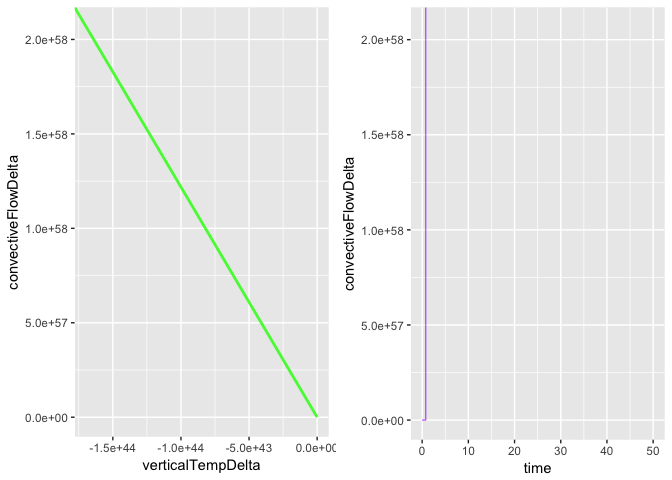
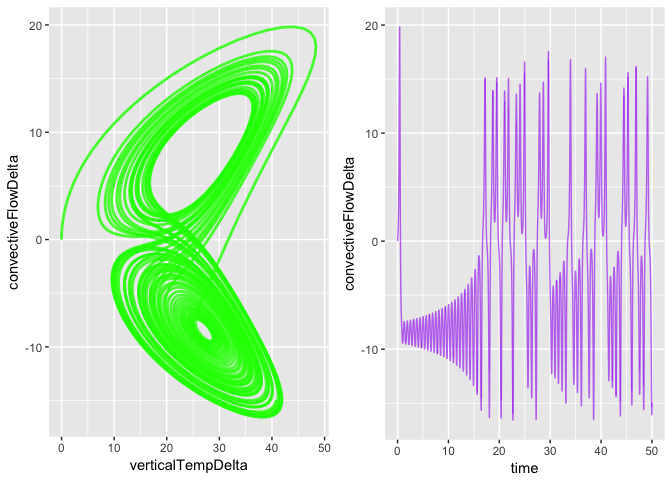
maatch init and return values

diff --git a/porting-lorenz/README.md b/porting-lorenz/README.md
@@ -7,7 +7,7 @@ simecol lorenz
 ![alt text](lorenz/lorenz.png "optional title")
 
 
-### simecol mode 
+### simecol mode
 
 ``` r
 library("simecol")
@@ -30,23 +30,25 @@ lorenz.model <- new("odeModel",                   # object class = 'odeModel'
             verticalTempDelta <- verticalTempDt
             convectiveFlowDelta <- convectiveFlowDt
           
-            list(c(horizTempDelta, verticalTempDelta, convectiveFlowDelta))
+            list(c(convectiveFlowDelta, horizTempDelta, verticalTempDelta)) # *match order with init()*
            })
          },
          
          #.0078125
         times = seq(0, 50, .0078125), 
-        parms = c(prandtl=10, rayleigh=28, height=8/3),
+        parms = c(prandtl=10, rayleigh=28, height=8/3), # 2.66666666667
         init = c(convectiveFlowDelta=0, horizTempDelta=1, verticalTempDelta=0),
-        solver = "rk4"
+        solver = "lsoda"  # use "lsoda" instead of "rk4". It is faster and more precise.
         
       )
 ```
 
 ``` r
 lorenz.sim <- sim(lorenz.model)
-#plot(lorenz.sim)
+plot(lorenz.sim)
 ```
+
+![](lorenz_files/figure-markdown_github/unnamed-chunk-2-1.png)
 
 ``` r
 plotupca <- function(obj, ...) {
@@ -57,7 +59,7 @@ plotupca <- function(obj, ...) {
   o.df <- out(obj)  # output a dataframe
   
   gg1 <- ggplot()  +
-    geom_line(aes(x=verticalTempDelta, y=convectiveFlowDelta), o.df, colour = "green", size=1, alpha=0.8)
+    geom_path(aes(x=verticalTempDelta, y=convectiveFlowDelta), o.df, colour = "green", size=1, alpha=0.8)
   
   gg2 <- ggplot()  +
     geom_line(aes(x=time, y=convectiveFlowDelta), o.df,  colour = "purple", alpha=0.6) 
@@ -72,10 +74,6 @@ plotupca <- function(obj, ...) {
  plotupca(lorenz.sim)
 ```
 
-    ## Warning: Removed 6301 rows containing missing values (geom_path).
-
-    ## Warning: Removed 6301 rows containing missing values (geom_path).
-
 ![](lorenz_files/figure-markdown_github/unnamed-chunk-4-1.png)
 
 ``` r
@@ -83,12 +81,12 @@ head(out(lorenz.sim))
 ```
 
     ##        time convectiveFlowDelta horizTempDelta verticalTempDelta
-    ## 1 0.0000000         0.000000000      1.0000000         0.0000000
-    ## 2 0.0078125        -0.008728548      0.9991512         0.0784315
-    ## 3 0.0156250        -0.019563975      0.9965861         0.1574912
-    ## 4 0.0234375        -0.032988830      0.9922734         0.2372266
-    ## 5 0.0312500        -0.049596997      0.9861773         0.3177246
-    ## 6 0.0390625        -0.070118823      0.9782553         0.3991204
+    ## 1 0.0000000          0.00000000       1.000000      0.0000000000
+    ## 2 0.0078125          0.07506709       1.000514      0.0002947338
+    ## 3 0.0156250          0.14514002       1.016805      0.0011507602
+    ## 4 0.0234375          0.21173848       1.047831      0.0025537160
+    ## 5 0.0312500          0.27620038       1.092866      0.0045218346
+    ## 6 0.0390625          0.33972050       1.151467      0.0071017494
 
 ``` r
 main(lorenz.sim)
@@ -106,7 +104,7 @@ main(lorenz.sim)
     ##             verticalTempDelta <- verticalTempDt
     ##             convectiveFlowDelta <- convectiveFlowDt
     ##           
-    ##             list(c(horizTempDelta, verticalTempDelta, convectiveFlowDelta))
+    ##             list(c(convectiveFlowDelta, horizTempDelta, verticalTempDelta)) # *match order with init()*
     ##            })
     ##          }
 
@@ -134,7 +132,7 @@ equations(lorenz.sim)
 solver(lorenz.sim)
 ```
 
-    ## [1] "rk4"
+    ## [1] "lsoda"
 
 ``` r
 class(lorenz.sim)
@@ -156,17 +154,18 @@ str(lorenz.sim)
     ##   ..@ observer : NULL
     ##   ..@ main     :function (times, y, parms)  
     ##   .. ..- attr(*, "srcref")=Class 'srcref'  atomic [1:8] 6 17 20 10 17 10 6 20
-    ##   .. .. .. ..- attr(*, "srcfile")=Classes 'srcfilecopy', 'srcfile' <environment: 0x7f8bf2d29e98> 
+    ##   .. .. .. ..- attr(*, "srcfile")=Classes 'srcfilecopy', 'srcfile' <environment: 0x7f8764c5c898> 
     ##   ..@ equations: NULL
     ##   ..@ times    : num [1:6401] 0 0.00781 0.01562 0.02344 0.03125 ...
     ##   ..@ inputs   : NULL
-    ##   ..@ solver   : chr "rk4"
+    ##   ..@ solver   : chr "lsoda"
     ##   ..@ out      : deSolve [1:6401, 1:4] 0 0.00781 0.01562 0.02344 0.03125 ...
-    ##   .. ..- attr(*, "istate")= int [1:21] 0 6400 25601 NA NA NA NA NA NA NA ...
     ##   .. ..- attr(*, "dimnames")=List of 2
     ##   .. .. ..$ : NULL
     ##   .. .. ..$ : chr [1:4] "time" "convectiveFlowDelta" "horizTempDelta" "verticalTempDelta"
+    ##   .. ..- attr(*, "istate")= int [1:21] 2 6800 13581 NA 6 6 0 68 23 NA ...
+    ##   .. ..- attr(*, "rstate")= num [1:5] 0.00781 0.00781 50.00359 0 43.98515
     ##   .. ..- attr(*, "lengthvar")= int 3
     ##   .. ..- attr(*, "class")= chr [1:2] "deSolve" "matrix"
-    ##   .. ..- attr(*, "type")= chr "rk"
+    ##   .. ..- attr(*, "type")= chr "lsoda"
     ##   ..@ initfunc : NULL

diff --git a/porting-lorenz/lorenz.md b/porting-lorenz/lorenz.md
@@ -22,23 +22,25 @@ lorenz.model <- new("odeModel",                   # object class = 'odeModel'
             verticalTempDelta <- verticalTempDt
             convectiveFlowDelta <- convectiveFlowDt
           
-            list(c(horizTempDelta, verticalTempDelta, convectiveFlowDelta))
+            list(c(convectiveFlowDelta, horizTempDelta, verticalTempDelta)) # *match order with init()*
            })
          },
          
          #.0078125
         times = seq(0, 50, .0078125), 
-        parms = c(prandtl=10, rayleigh=28, height=8/3),
+        parms = c(prandtl=10, rayleigh=28, height=8/3), # 2.66666666667
         init = c(convectiveFlowDelta=0, horizTempDelta=1, verticalTempDelta=0),
-        solver = "rk4"
+        solver = "lsoda"  # use "lsoda" instead of "rk4". It is faster and more precise.
         
       )
 ```
 
 ``` r
 lorenz.sim <- sim(lorenz.model)
-#plot(lorenz.sim)
+plot(lorenz.sim)
 ```
+
+![](lorenz_files/figure-markdown_github/unnamed-chunk-2-1.png)
 
 ``` r
 plotupca <- function(obj, ...) {
@@ -49,7 +51,7 @@ plotupca <- function(obj, ...) {
   o.df <- out(obj)  # output a dataframe
   
   gg1 <- ggplot()  +
-    geom_line(aes(x=verticalTempDelta, y=convectiveFlowDelta), o.df, colour = "green", size=1, alpha=0.8)
+    geom_path(aes(x=verticalTempDelta, y=convectiveFlowDelta), o.df, colour = "green", size=1, alpha=0.8)
   
   gg2 <- ggplot()  +
     geom_line(aes(x=time, y=convectiveFlowDelta), o.df,  colour = "purple", alpha=0.6) 
@@ -64,10 +66,6 @@ plotupca <- function(obj, ...) {
  plotupca(lorenz.sim)
 ```
 
-    ## Warning: Removed 6301 rows containing missing values (geom_path).
-
-    ## Warning: Removed 6301 rows containing missing values (geom_path).
-
 ![](lorenz_files/figure-markdown_github/unnamed-chunk-4-1.png)
 
 ``` r
@@ -75,12 +73,12 @@ head(out(lorenz.sim))
 ```
 
     ##        time convectiveFlowDelta horizTempDelta verticalTempDelta
-    ## 1 0.0000000         0.000000000      1.0000000         0.0000000
-    ## 2 0.0078125        -0.008728548      0.9991512         0.0784315
-    ## 3 0.0156250        -0.019563975      0.9965861         0.1574912
-    ## 4 0.0234375        -0.032988830      0.9922734         0.2372266
-    ## 5 0.0312500        -0.049596997      0.9861773         0.3177246
-    ## 6 0.0390625        -0.070118823      0.9782553         0.3991204
+    ## 1 0.0000000          0.00000000       1.000000      0.0000000000
+    ## 2 0.0078125          0.07506709       1.000514      0.0002947338
+    ## 3 0.0156250          0.14514002       1.016805      0.0011507602
+    ## 4 0.0234375          0.21173848       1.047831      0.0025537160
+    ## 5 0.0312500          0.27620038       1.092866      0.0045218346
+    ## 6 0.0390625          0.33972050       1.151467      0.0071017494
 
 ``` r
 main(lorenz.sim)
@@ -98,7 +96,7 @@ main(lorenz.sim)
     ##             verticalTempDelta <- verticalTempDt
     ##             convectiveFlowDelta <- convectiveFlowDt
     ##           
-    ##             list(c(horizTempDelta, verticalTempDelta, convectiveFlowDelta))
+    ##             list(c(convectiveFlowDelta, horizTempDelta, verticalTempDelta)) # *match order with init()*
     ##            })
     ##          }
 
@@ -126,7 +124,7 @@ equations(lorenz.sim)
 solver(lorenz.sim)
 ```
 
-    ## [1] "rk4"
+    ## [1] "lsoda"
 
 ``` r
 class(lorenz.sim)
@@ -148,17 +146,18 @@ str(lorenz.sim)
     ##   ..@ observer : NULL
     ##   ..@ main     :function (times, y, parms)  
     ##   .. ..- attr(*, "srcref")=Class 'srcref'  atomic [1:8] 6 17 20 10 17 10 6 20
-    ##   .. .. .. ..- attr(*, "srcfile")=Classes 'srcfilecopy', 'srcfile' <environment: 0x7f8bf2d29e98> 
+    ##   .. .. .. ..- attr(*, "srcfile")=Classes 'srcfilecopy', 'srcfile' <environment: 0x7f8764c5c898> 
     ##   ..@ equations: NULL
     ##   ..@ times    : num [1:6401] 0 0.00781 0.01562 0.02344 0.03125 ...
     ##   ..@ inputs   : NULL
-    ##   ..@ solver   : chr "rk4"
+    ##   ..@ solver   : chr "lsoda"
     ##   ..@ out      : deSolve [1:6401, 1:4] 0 0.00781 0.01562 0.02344 0.03125 ...
-    ##   .. ..- attr(*, "istate")= int [1:21] 0 6400 25601 NA NA NA NA NA NA NA ...
     ##   .. ..- attr(*, "dimnames")=List of 2
     ##   .. .. ..$ : NULL
     ##   .. .. ..$ : chr [1:4] "time" "convectiveFlowDelta" "horizTempDelta" "verticalTempDelta"
+    ##   .. ..- attr(*, "istate")= int [1:21] 2 6800 13581 NA 6 6 0 68 23 NA ...
+    ##   .. ..- attr(*, "rstate")= num [1:5] 0.00781 0.00781 50.00359 0 43.98515
     ##   .. ..- attr(*, "lengthvar")= int 3
     ##   .. ..- attr(*, "class")= chr [1:2] "deSolve" "matrix"
-    ##   .. ..- attr(*, "type")= chr "rk"
+    ##   .. ..- attr(*, "type")= chr "lsoda"
     ##   ..@ initfunc : NULL
